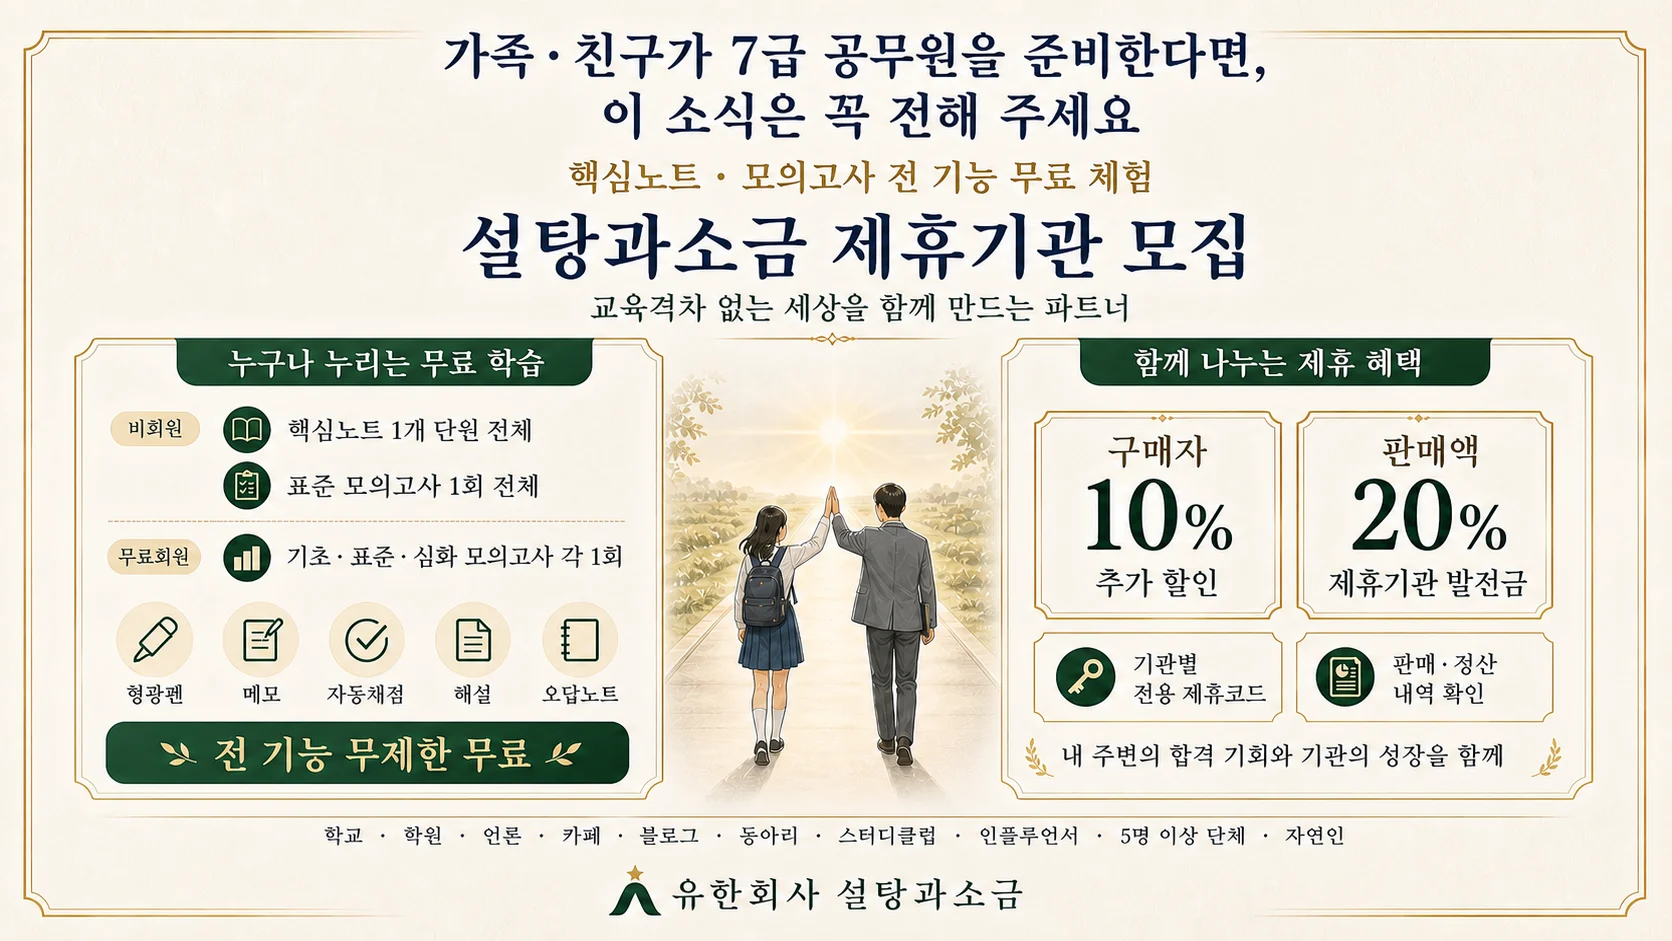
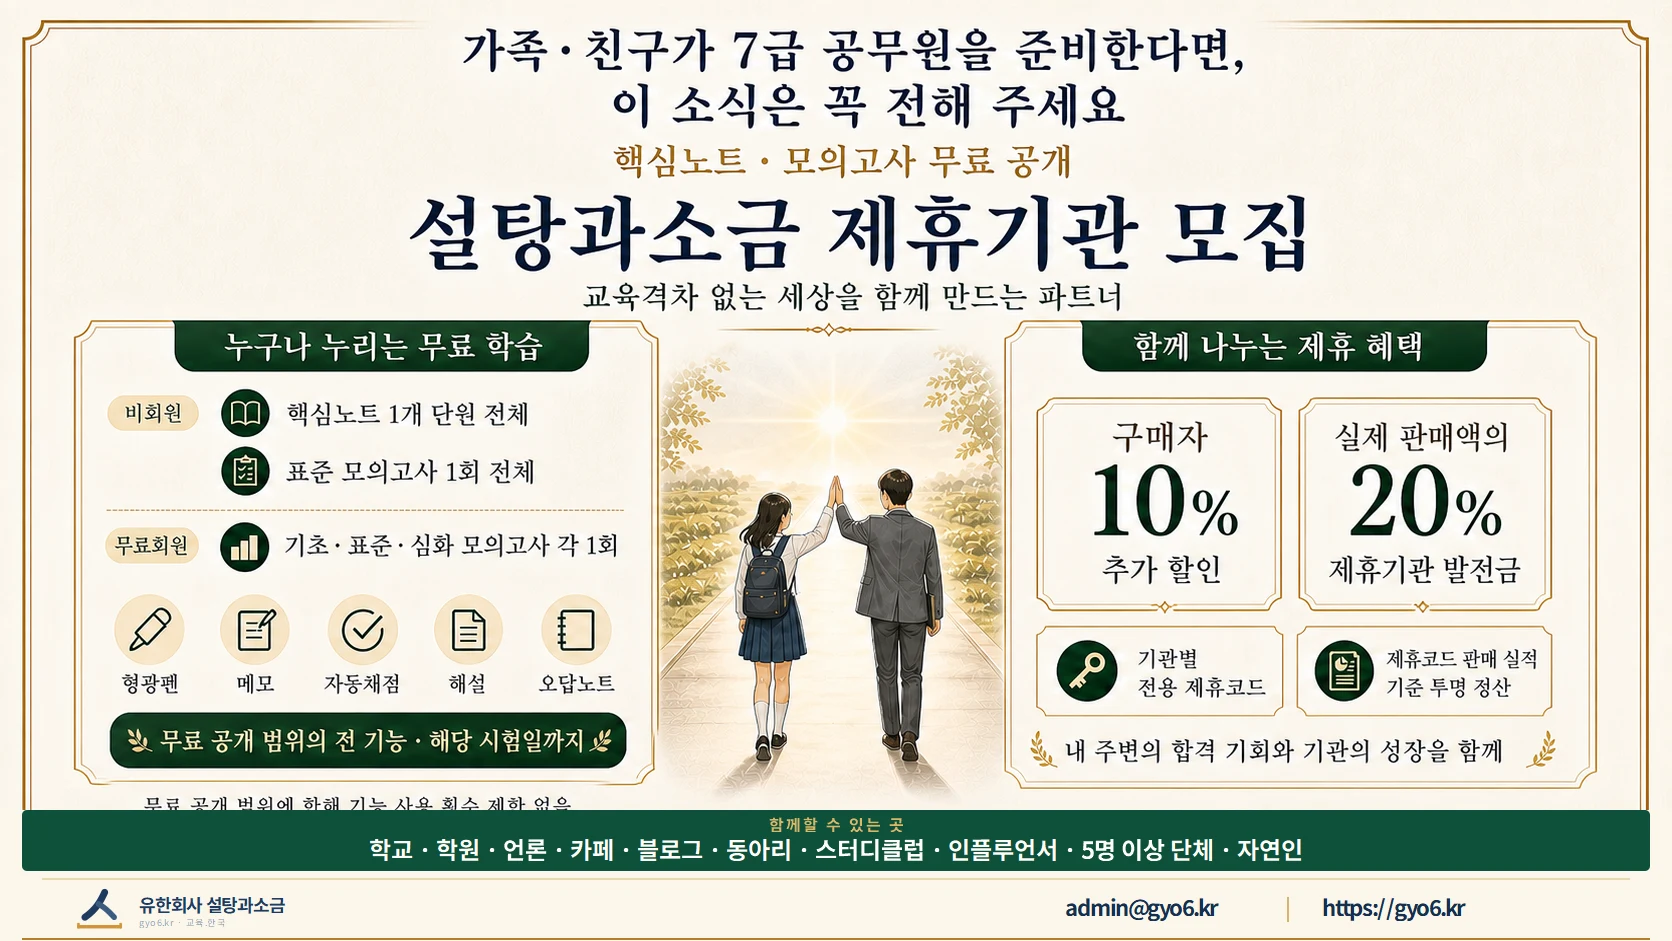
Refine partnership campaign artwork

Changed region(s): [[0.0, 0.0, 0.9952, 1.0]]

diff --git a/partners.html b/partners.html
@@ -12,7 +12,7 @@
   <a class="skip" href="#main">본문 바로가기</a>
   <header class="site-header"><nav class="nav" aria-label="주요 메뉴"><a class="brand" href="index.html" aria-label="유한회사 설탕과소금 홈"><img class="brand-mark" src="brand/logo/badge.svg" width="46" height="46" alt=""><span class="brand-wordmark"><strong>설탕과소금</strong><small>gyo6.kr · 교육.한국</small></span></a><div class="navlinks"><a href="vocational.html">특성화고 교육지원센터</a><a href="exams.html">공직시험 연구소</a><a href="apps.html">디지털 프로젝트 스튜디오</a><a href="host.html">교육현장 30년</a><a href="boards.html">소식·문의</a></div></nav></header>
   <main id="main">
-    <section class="partnership-hero"><div class="wrap"><picture><source media="(max-width: 620px)" srcset="assets/partnership-fair-start-mobile.webp"><img src="assets/partnership-fair-start-desktop.webp" width="1672" height="935" alt="설탕과소금 제휴기관 모집"></picture></div></section>
+    <section class="partnership-hero"><div class="wrap"><picture><source media="(max-width: 620px)" srcset="assets/partnership-fair-start-mobile.webp"><img src="assets/partnership-fair-start-desktop.webp" width="1672" height="941" alt="설탕과소금 제휴기관 모집"></picture></div></section>
     <section class="partnership-body"><div class="wrap">
       <div class="partnership-intro"><div><span class="eyebrow">FAIR START PARTNERSHIP</span><h1>교육의 기회를 함께 넓히는 제휴</h1></div><p>설탕과소금은 홍보 숫자를 늘리기 위한 제휴보다, 더 많은 학습자가 비용과 환경 때문에 출발선에서 밀리지 않도록 돕는 연결을 만들고자 합니다.</p></div>
       <div class="partnership-benefits" aria-label="제휴 혜택"><article><span>학습자 혜택</span><strong>출시기념 할인가에서<br>10% 추가 할인</strong><p>제휴코드를 구매 과정에서 입력하면 서버가 유효성을 확인하고 할인액을 자동 계산합니다.</p></article><article><span>제휴 파트너 지원</span><strong>실결제액의 20%를<br>발전금으로 적립</strong><p>취소·환불을 제외한 확정 판매액을 기준으로 투명하게 집계하고 정산 내역을 제공합니다.</p></article></div>

diff --git a/index.html b/index.html
@@ -50,7 +50,7 @@
           <a class="home-free-mock-button" href="exam-service.html?service=civil&amp;free=1&amp;from=home">과목별 무료 모의고사 <b>시작하기 →</b></a>
         </aside>
         <a class="home-partnership-banner" href="partners.html?from=home" aria-label="공정한 출발선을 함께 넓힐 설탕과소금 제휴기관 모집 안내">
-          <picture><source media="(max-width: 620px)" srcset="assets/partnership-fair-start-mobile.webp"><img src="assets/partnership-fair-start-desktop.webp" width="1672" height="935" alt="공정한 출발선을 함께 넓히는 설탕과소금 제휴기관 모집. 구매자 추가 할인과 제휴기관 발전금"></picture>
+          <picture><source media="(max-width: 620px)" srcset="assets/partnership-fair-start-mobile.webp"><img src="assets/partnership-fair-start-desktop.webp" width="1672" height="941" alt="공정한 출발선을 함께 넓히는 설탕과소금 제휴기관 모집. 구매자 추가 할인과 제휴기관 발전금"></picture>
           <span>제휴 안내와 참여 방법 보기 →</span>
         </a>
         <div class="home-pillar-grid" aria-label="설탕과소금 네 영역">

diff --git a/assets/portal-popup.js b/assets/portal-popup.js
@@ -17,7 +17,7 @@ function showPartnershipPopup() {
       <a class="partnership-popup-art" href="${CAMPAIGN_LINK}" aria-label="설탕과소금 제휴기관 모집 자세히 보기">
         <picture>
           <source media="(max-width: 620px)" srcset="assets/partnership-fair-start-mobile.webp">
-          <img src="assets/partnership-fair-start-desktop.webp" width="1672" height="935" alt="공정한 출발선을 함께 넓히는 설탕과소금 제휴기관 모집. 구매자 10퍼센트 추가 할인, 판매액 20퍼센트 제휴기관 발전금">
+          <img src="assets/partnership-fair-start-desktop.webp" width="1672" height="941" alt="공정한 출발선을 함께 넓히는 설탕과소금 제휴기관 모집. 구매자 10퍼센트 추가 할인, 판매액 20퍼센트 제휴기관 발전금">
         </picture>
       </a>
       <div class="board-home-popup-actions">
